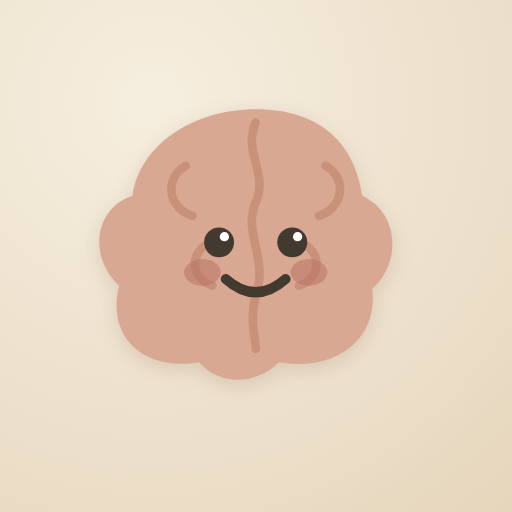
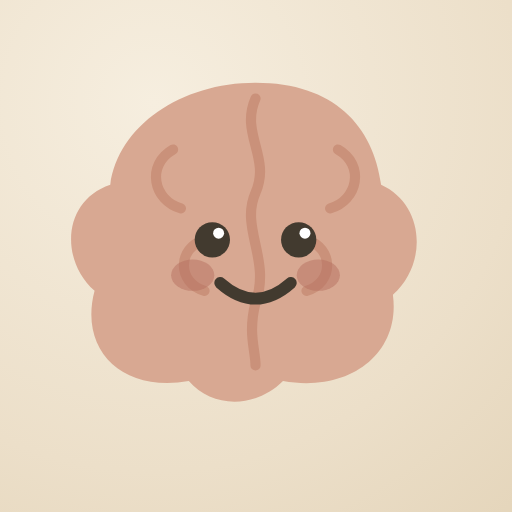
Icono mas grande (cerebro ocupa mejor el cuadro), sin sombra

diff --git a/assets/icon_source.html b/assets/icon_source.html
@@ -6,8 +6,7 @@
   html,body{margin:0;padding:0;width:100%;height:100%;overflow:hidden;}
   body{display:grid;place-items:center;
     background:radial-gradient(120% 120% at 30% 20%, #F6EEDF 0%, #ECDFC9 60%, #E2D2B6 100%);}
-  svg{width:78%;height:78%;display:block;overflow:visible;
-    filter:drop-shadow(0 6px 10px rgba(120,80,55,.18));}
+  svg{width:92%;height:92%;display:block;overflow:visible;}
 </style>
 </head>
 <body>

diff --git a/docs/AVANCES.md b/docs/AVANCES.md
@@ -4,6 +4,15 @@ Registro cronológico del estado del proyecto.
 
 ---
 
+## 2026-06-29 — Fix header tapado por el notch (v8) — pusheado
+
+- ✅ El logo/header quedaba cortado bajo el Dynamic Island con black-translucent.
+  Se sacó el padding safe-area del `body` y se puso en `.app` con margen
+  garantizado: `calc(env(safe-area-inset-top) + 16px)` arriba, `max(18px, inset)`
+  a los lados, `calc(130px + inset-bottom)` abajo. Header padding-top reducido a 8px.
+
+---
+
 ## 2026-06-29 — Cuadro Finales: abajo + minimizar (v7) — pusheado
 
 - ✅ El cuadro de Finales se movió al FINAL de la vista "Todas" (antes arriba).